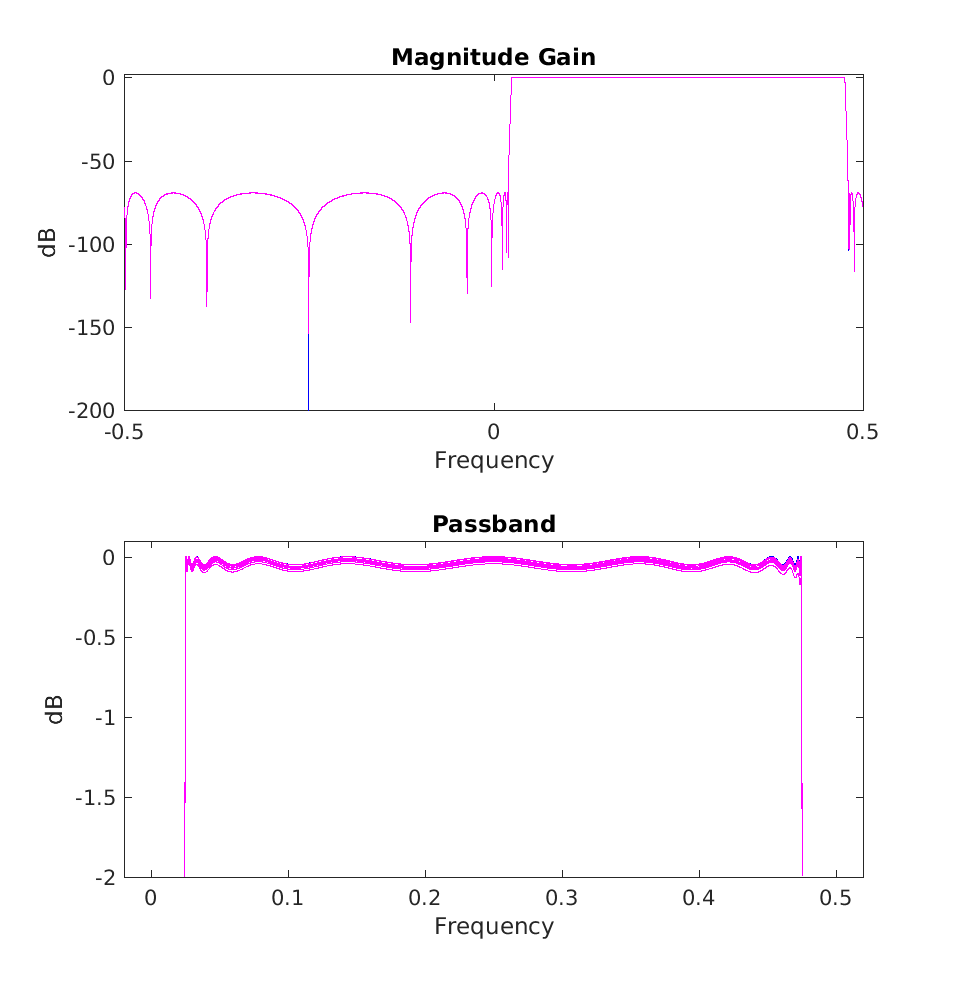
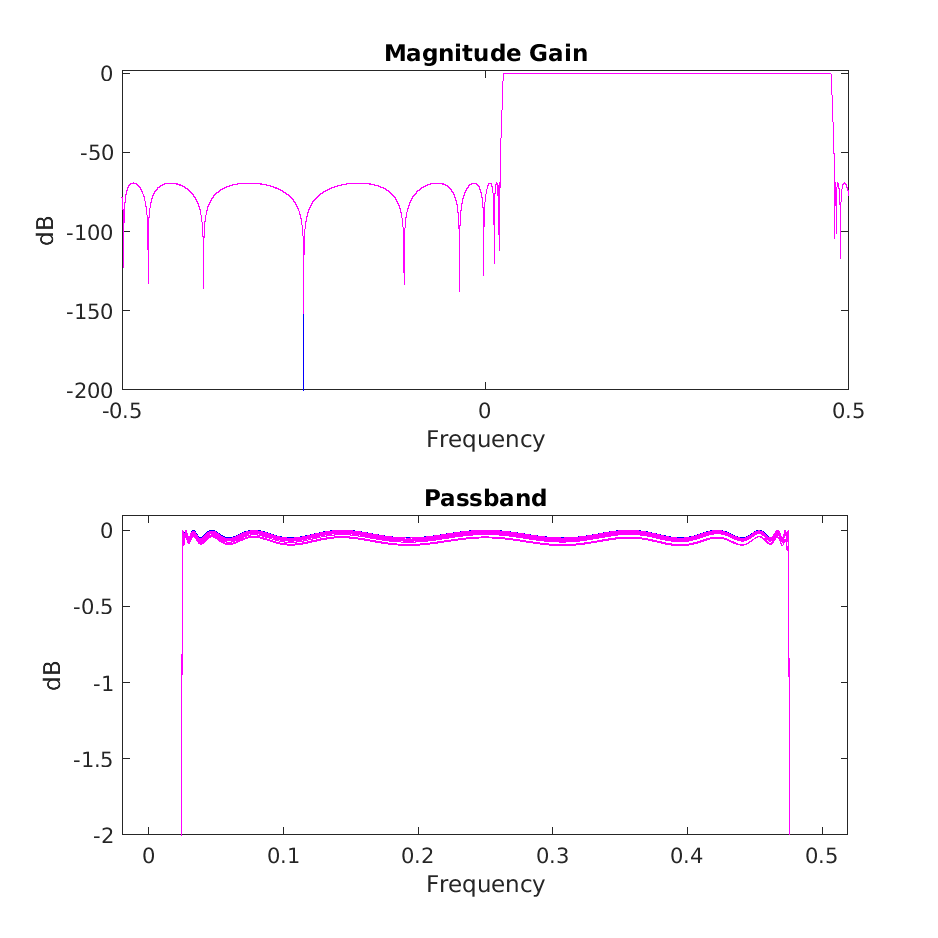
Last minute fixes and changed default cascade to first-order sections

diff --git a/lib/mkCscdFltrD2.m b/lib/mkCscdFltrD2.m
@@ -1,0 +1,49 @@
+function cscdFltr = mkCscdFltrD2(H, wp)
+%   cscdFltr = mkCscdFltrD2(H, wp) designs a cascade filer given transfer function H
+%   and passband wp. The object returned, cscdFltr, is a cascadeClass object.
+%   cscdFltr is composed of 1st order sections only
+%
+%   This program is free software: you can redistribute it and/or modify
+%   it under the terms of the GNU General Public License as published by
+%   the Free Software Foundation, either version 3 of the License, or
+%   (at your option) any later version.
+%
+%   This program is distributed in the hope that it will be useful,
+%   but WITHOUT ANY WARRANTY; without even the implied warranty of
+%   MERCHANTABILITY or FITNESS FOR A PARTICULAR PURPOSE.  See the
+%   GNU General Public License for more details.
+%
+%   You should have received a copy of the GNU General Public License
+%   along with this program.  If not, see <http://www.gnu.org/licenses/>.
+%
+
+  % Instantiate a cascadeClass object
+  cscdFltr = cascadeClass();
+
+  % order zeros and poles and combine zeros to closest poles starting
+  % from zeros closest to passband and working out
+  [z p] = groupZerosD(H, wp);
+  nmbSctns = length(z);
+
+  % Combine consecutive pairs of zeros and poles into zpk() systems
+  % and add to cascadeClass() object
+
+  for i=1:nmbSctns
+    sys = zpk(z(i), p(i), 1, 1);
+    sctn = cscFltrSctnClass(sys);
+    sctn.setGain(1,wp);
+    cscdFltr.addSctn(sctn);
+  end
+
+  for i = nmbSctns+1:length(p) % in case there are fewer poles than zeros
+    sys = zpk([], p(i), 1, 1);
+    sctn = cscFltrSctnClass(sys);
+    sctn.setGain(1,wp);
+    cscdFltr.addSctn(sctn);
+  end
+
+  % the built scaling function of the cascadeClass() is used to
+  % scale peak gains to be unity (in the l-infinity sense)
+
+  cscdFltr.scaleFltr(wp);
+  a=1;

diff --git a/examples/EqualFltr_1_6_0.m b/examples/EqualFltr_1_6_0.m
@@ -22,8 +22,8 @@ ONE_STP = 0;
 % plot_crsps(Hbssl, [-1 1], [-10 10], 'b',[-20 20 -180 2]);
 % [lgH, phH, gdH, dLdW, dTdW] = plot_am_ph_gd(Hbssl, [-1 1], [-10 10], 'b');
 
-Ap = 1.702;
-cscdFltr1 = dsgnCascadeFltr(p,px,ni,wp,ws,as,Ap,'equiGD');
+Ap = 1.405;
+cscdFltr1 = dsgnCscdFltr(p,px,ni,wp,ws,as,Ap,'equiGD');
 H1 = cscdFltr1.getSystem();
 plot_dam_ph_gd(H1, wp, ws, 'b');
 
@@ -78,6 +78,7 @@ toc
 
 drawnow;
 cscdHndl = gcf;
-print(strcat('Figures/', fltrNm), '-dpng');
+FigDir = strcat(ExmplDir, 'Figures/');
+print(strcat(ExmplDir, fltrNm), '-dpng');
 
 a=1;

diff --git a/examples/csc_fltr_1_8_1.m b/examples/csc_fltr_1_8_1.m
@@ -26,7 +26,7 @@ ONE_STP = 0;
 % cscdFltr1 = mkCscdFltrD(H, wp_);
 % This functionality has now been encapsulated in dsgnCascadeFltr()
 tic
-cscdFltr1 = dsgnCascadeFltr(p_,px_,ni,wp_,ws_,as,Ap,'elliptic');
+cscdFltr1 = dsgnCscdFltr(p_,px_,ni,wp_,ws_,as,Ap,'elliptic');
 H = cscdFltr1.getSystem();
 % if internal object update not needed just use H = cscdFltr1.sys
 toc

diff --git a/startup.m b/startup.m
@@ -1,6 +1,6 @@
 RootDir = getenv('CMPLXROOT');
 if isempty(RootDir)
-    setenv('CMPLXROOT', '/home/martin/Dropbox/Matlab/Complex/KM_ComplexFilterToolbox');
+    setenv('CMPLXROOT', cd);
     RootDir = getenv('CMPLXROOT');
 end
 ExmplDir = strcat(RootDir, '/examples');

diff --git a/lib/groupZerosD.m b/lib/groupZerosD.m
@@ -44,5 +44,7 @@ function [z3 p3] = groupZerosD(H, wp)
     i = i+1;
   end
 
-  % assuming bilinear transform, the number of zeros equals the number of poles
+  % add remaining poles having zeros at infinity
+  p3 = [p3 p2];
+
   a=1;

diff --git a/lib/dsgnCscdFltr.m b/lib/dsgnCscdFltr.m
@@ -28,5 +28,5 @@ function cscdFltr = dsgnCscdFltr(p,px,ni,wp,ws,as,Ap,type)
 %
 
     H = dsgnDigitalFltr(p,px,ni,wp,ws,as,Ap,type);
-    cscdFltr = mkCscdFltrD(H, wp);
+    cscdFltr = mkCscdFltrD2(H, wp);
     a=1;
